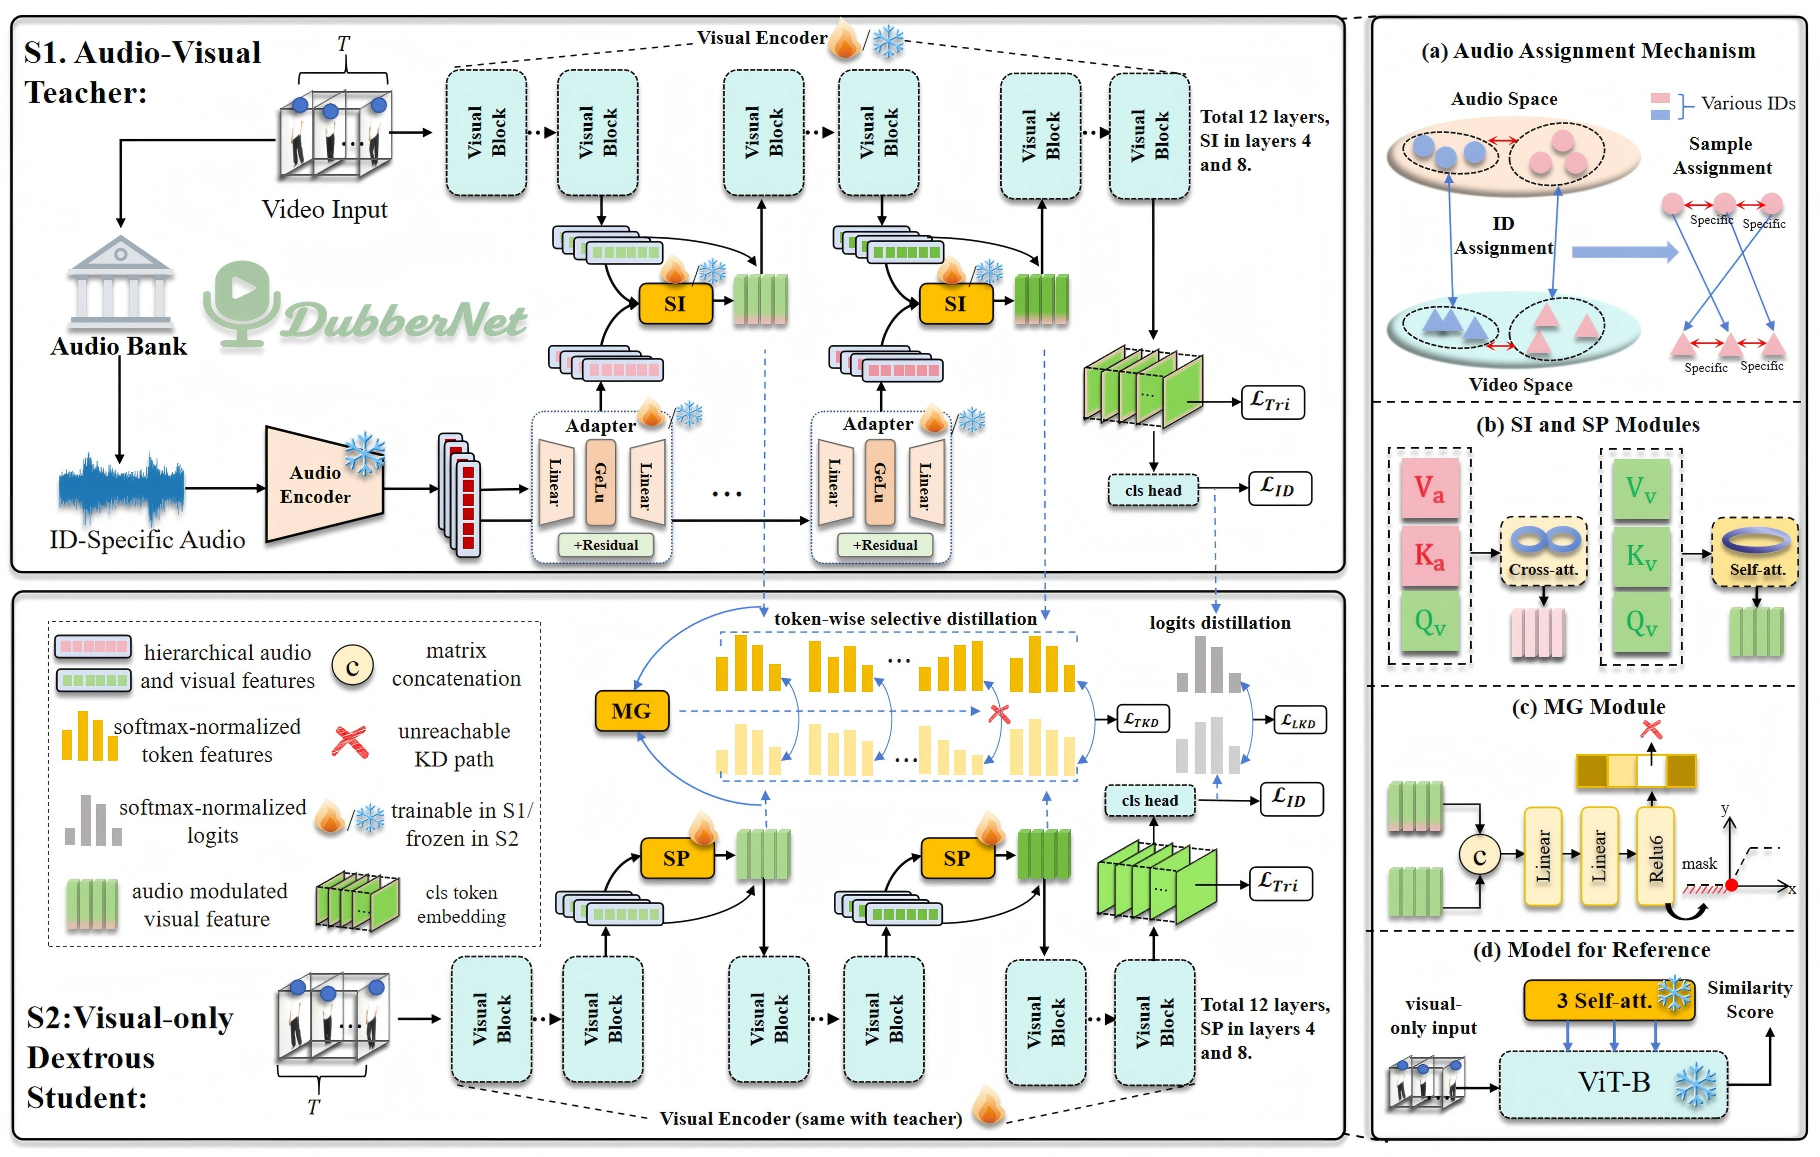
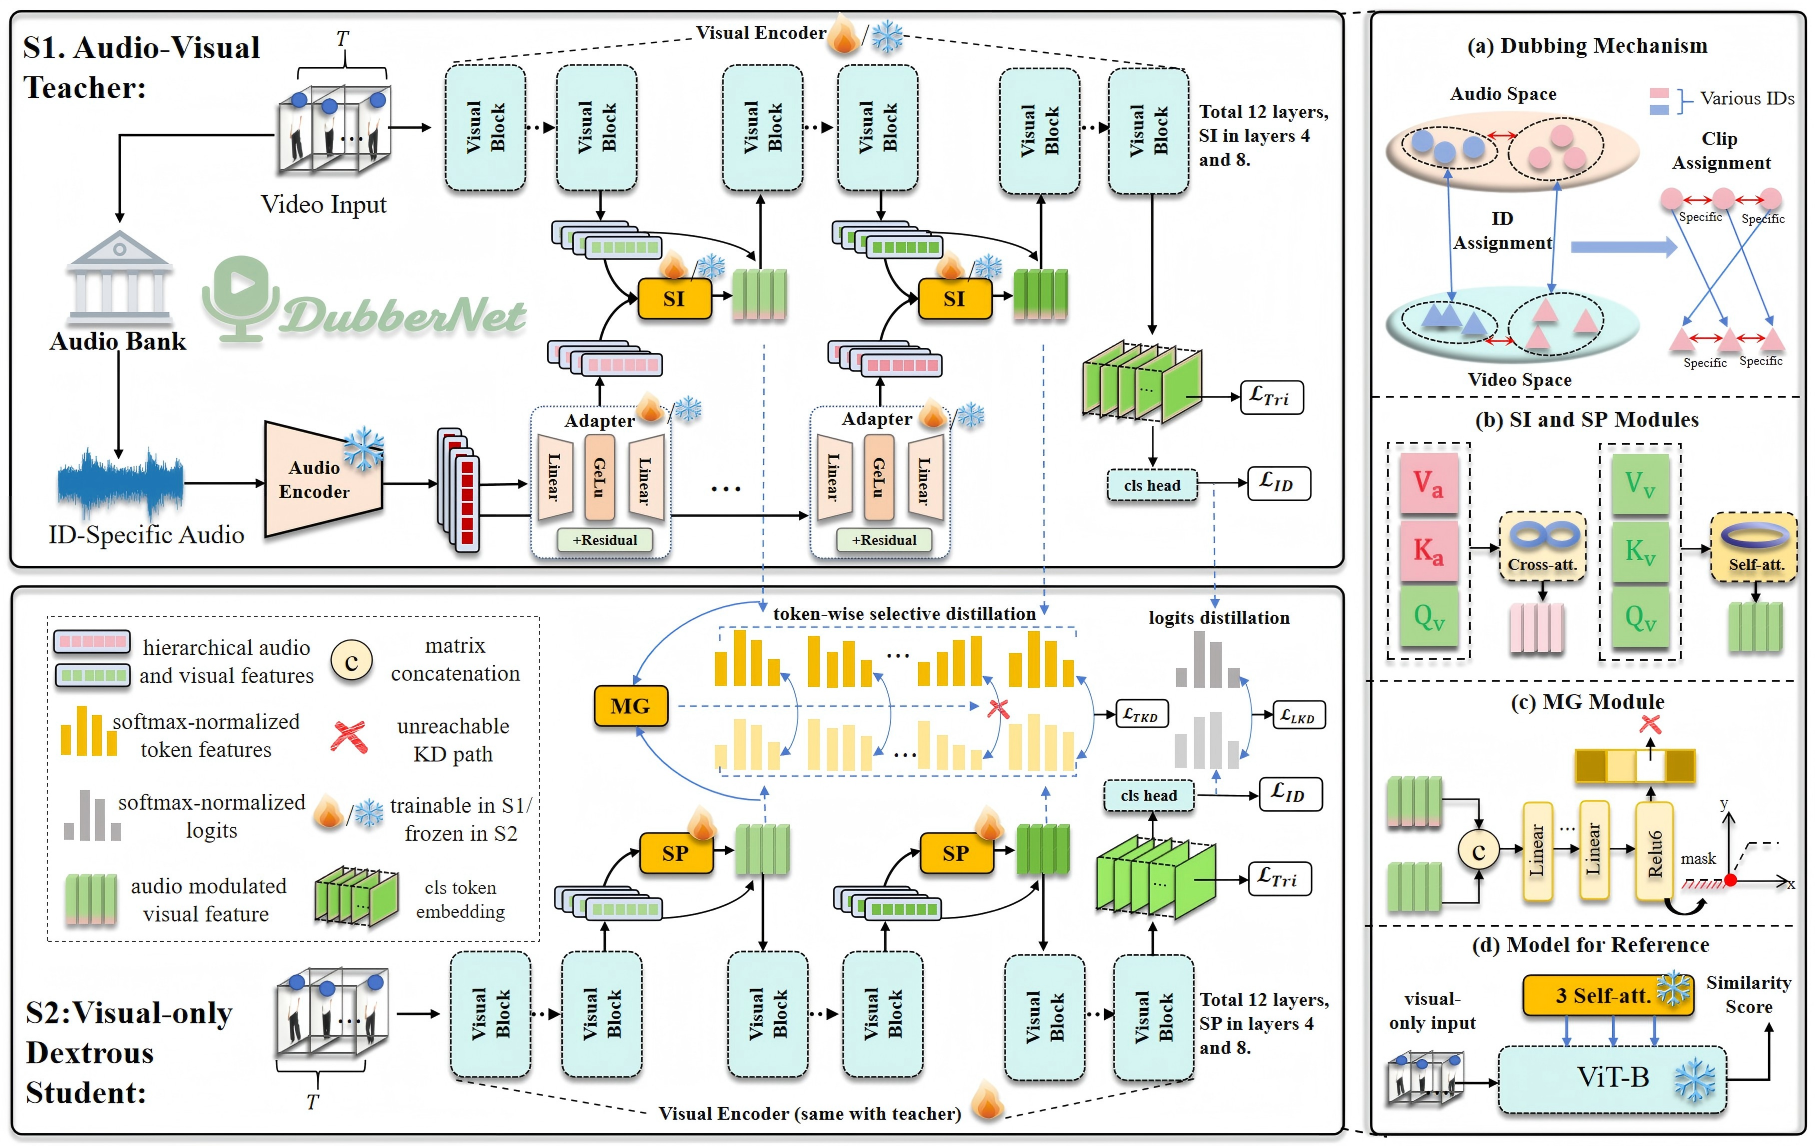
init

diff --git a/index.html b/index.html
@@ -60,8 +60,10 @@
       <h2>🌟 Highlights</h2>
       <ul>
         <li>We propose a <b>noval Dubbing-based audio-visual collaborative framework</b> named <b>DubberNet</b> for video-based person ReID. To the best of our knowledge, we are the first to introduce audio for advancing this field.</li>
-        <li>We propose an effective <b>multimodal learning and transfer mechanism</b> that employs a <b>Simple Injection Module (SIM)</b> and a <b>Simple Perception Module (SPM)</b> to learn multimodal features, and our approach can effectively operate in both audio-visual and purely visual settings.</li>
-        <li>Together with the proposed <b>Frame Attention Mechanism (FAM)</b>, our method achieves state-of-the-art performance on three standard video-based ReID datasets, namely <b>MARS</b>, <b>iLIDS-VID</b>, and <b>PRID</b>.</li>
+        <li>We propose an efficient <b>multimodal learning and transfer mechanism</b> that employs a <b>Simple Injection (SI) module</b> to efficiently fuse audio and a structurally consistent Simple Perception (SP) module to perceive knowledge.</li>
+        <li>We propose a token-wise <b>selective distillation strategy</b>, in which a mask generator (MG) <b>adaptively preserves informative tokens</b>, allowing the student to inherit more robust knowledge from the teacher.</li>
+        <li>Extensive experiments demonstrates that DubberNet outperforms the state-of-the-art methods on three standard benchmarks <b>(MARS, iLIDS-VID, and PRID)</b>, achieving Rank-1 accuracy of 97.0\% and 96.0\% on MARS and iLIDS-VID, respectively.</li>
+
       </ul>
     </section>
 

diff --git a/README.md b/README.md
@@ -7,8 +7,11 @@
 
 ## 🌟 Highlights
 - We propose a noval Dubbing-based audio-visual collaborative framework named DubberNet for video-based person ReID. To the best of our knowledge, we are the first to introduce audio for advancing this field.
-- We propose an effective multimodal learning and transfer mechanism that employs a Simple Injection Module (SIM) and a Simple Perception Module (SPM) to learn multimodal features, and our approach can effectively operate in both audio-visual and purely visual settings.
-- Together with the proposed Frame Attention Mechanism (FAM), our method achieves state-of-the-art performance on three standard video-based ReID datasets, namely MARS, iLIDS-VID, and PRID.
+- We propose an efficient multimodal learning and transfer mechanism that employs a Simple Injection (SI) module to efficiently fuse audio and a structurally consistent Simple Perception (SP) module to perceive knowledge.
+- We propose a token-wise selective distillation strategy, in which a mask generator (MG) adaptively preserves informative tokens, allowing the student to inherit more robust knowledge from the teacher.
+- Extensive experiments demonstrates that DubberNet outperforms the state-of-the-art methods on three standard benchmarks (MARS, iLIDS-VID, and PRID), achieving Rank-1 accuracy of 97.0% and 96.0% on MARS and iLIDS-VID, respectively.
+
+
 ---
 
 ## 🖼 Teaser
